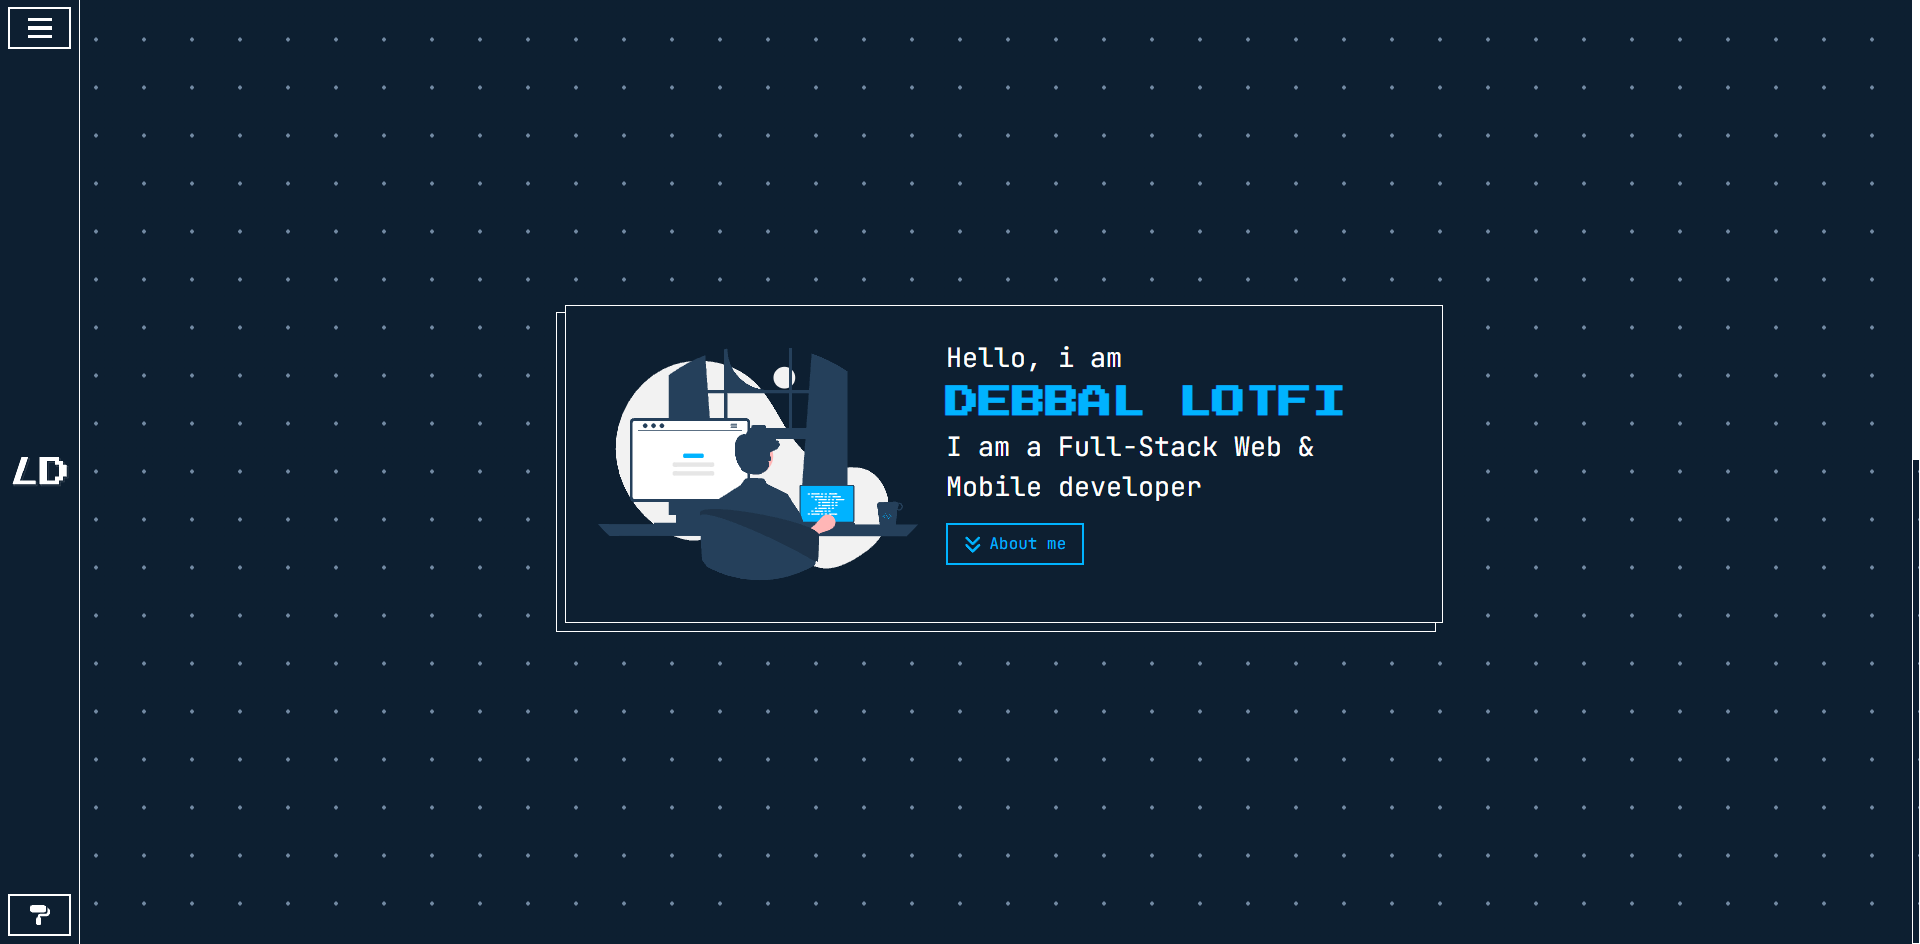
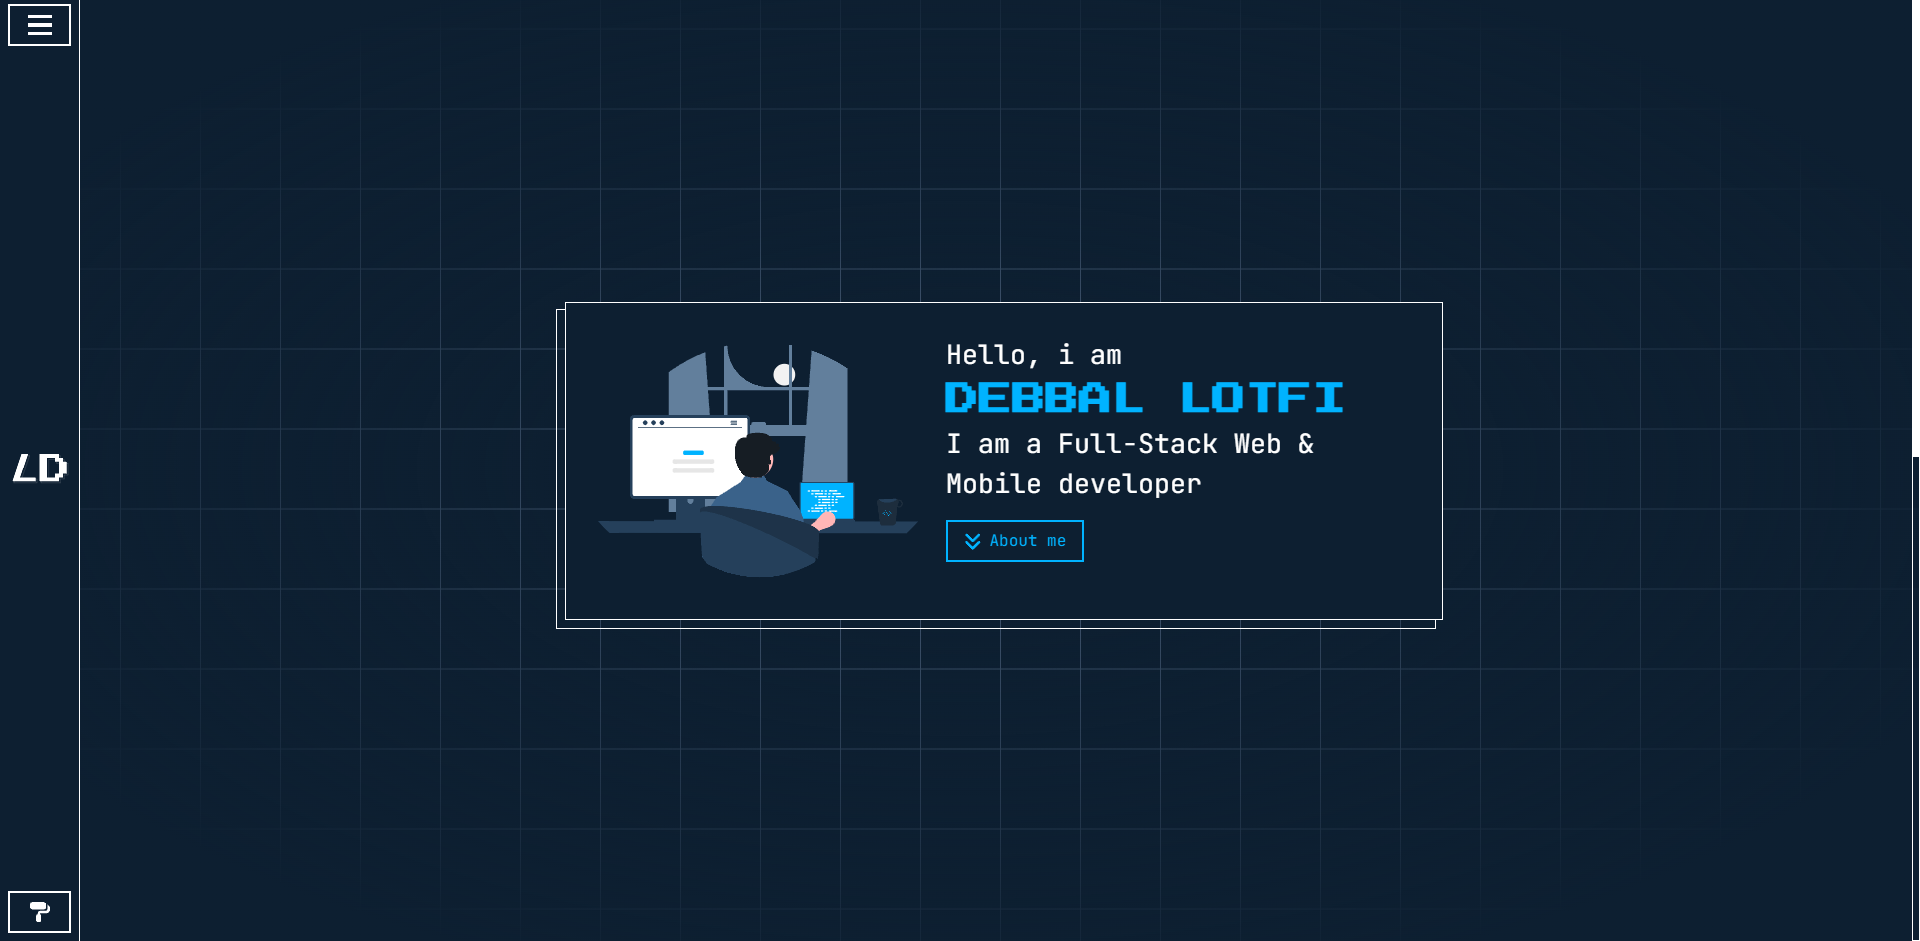
update

diff --git a/src/index.css b/src/index.css
@@ -25,7 +25,7 @@
   --warning-100: #ebd557;
   --success-100: #1cad59;
   --edge-100: #ffffff;
-  --edge-200: #3a4a5e;
+  --edge-200: #4d627d;
 }
 
 ::selection {
